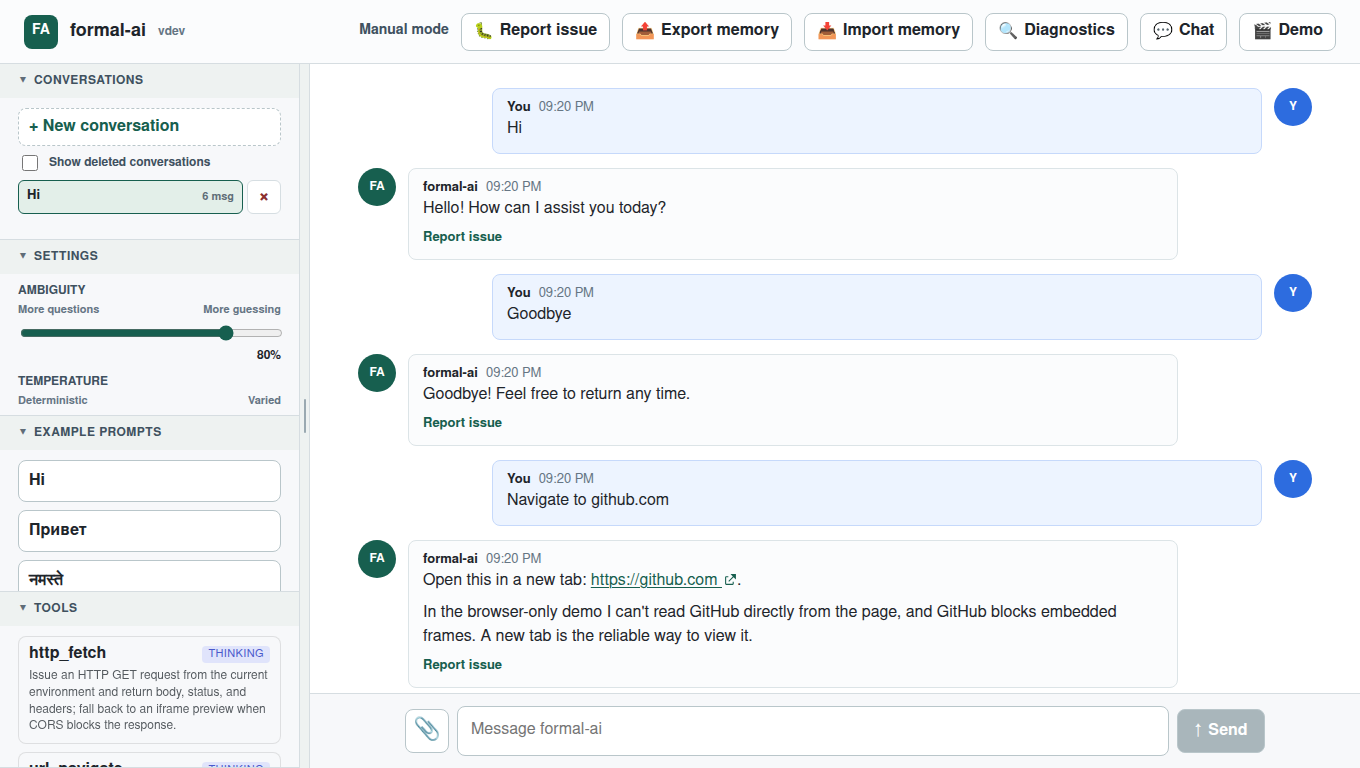
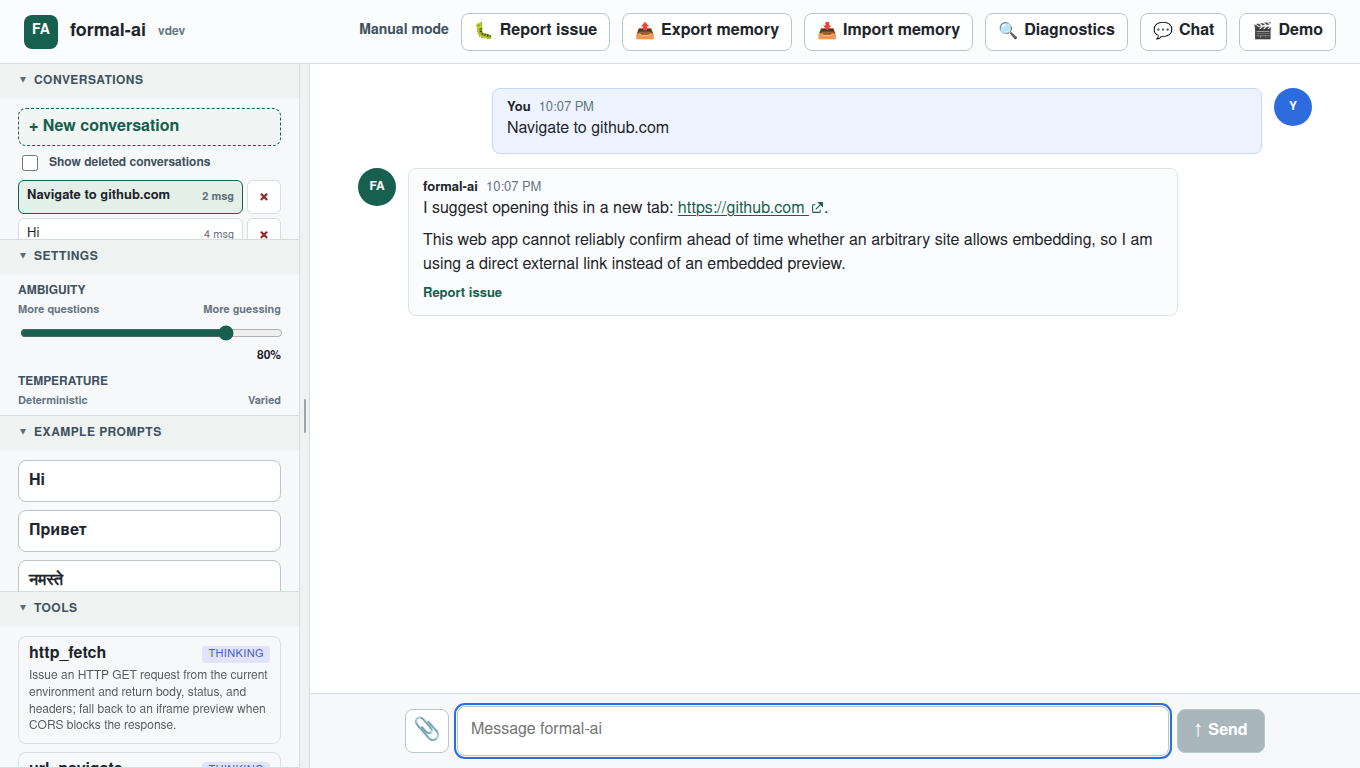
Refine URL navigation external links

diff --git a/src/web/formal_ai_worker.js b/src/web/formal_ai_worker.js
@@ -4237,20 +4237,6 @@ function normalizeUrlCandidate(candidate) {
   return parsed.href.replace(/\/$/, "");
 }
 
-function knownFrameBlockedHost(url) {
-  let parsed;
-  try {
-    parsed = new URL(url);
-  } catch (_error) {
-    return "";
-  }
-  const host = parsed.hostname.toLowerCase();
-  if (host === "github.com" || host.endsWith(".github.com")) {
-    return host;
-  }
-  return "";
-}
-
 function firstUrlCandidate(prompt) {
   const tokens = String(prompt || "").split(/\s+/);
   for (const token of tokens) {
@@ -4611,34 +4597,14 @@ async function tryUrlNavigate(prompt) {
   const url = extractUrlNavigateUrl(prompt, normalized);
   if (!url) return null;
 
-  const blockedHost = knownFrameBlockedHost(url);
   const evidence = [`url_navigate:request:${url}`];
-  if (blockedHost) {
-    evidence.push(`url_preview:blocked:${blockedHost}`);
-    return {
-      intent: "url_navigate",
-      content: [
-        `Open this in a new tab: [${url}](${url}).`,
-        "",
-        [
-          "In the browser-only demo I can't read GitHub directly from the page,",
-          "and GitHub blocks embedded frames.",
-          "A new tab is the reliable way to view it.",
-        ].join(" "),
-      ].join("\n"),
-      confidence: 0.95,
-      evidence,
-      iframeUrl: null,
-    };
-  }
-
-  evidence.push(`url_preview:iframe:${url}`);
+  evidence.push(`url_preview:external_link:${url}`);
   const lines = [
-    `Open this page: [${url}](${url}).`,
+    `I suggest opening this in a new tab: [${url}](${url}).`,
     "",
     [
-      "I can also show a preview below when the site allows embedded frames.",
-      "If the frame is blocked, use the new-tab control.",
+      "This web app cannot reliably confirm ahead of time whether an arbitrary site allows embedding,",
+      "so I am using a direct external link instead of an embedded preview.",
     ].join(" "),
   ];
 
@@ -4647,7 +4613,7 @@ async function tryUrlNavigate(prompt) {
     content: lines.join("\n"),
     confidence: 0.95,
     evidence,
-    iframeUrl: url,
+    iframeUrl: null,
   };
 }
 

diff --git a/tests/e2e/tests/multilingual.spec.js b/tests/e2e/tests/multilingual.spec.js
@@ -201,7 +201,7 @@ test.describe('multilingual chat surface', () => {
     await expect(last).not.toContainText(/рок-группа|rock band|american.*rock|глэм/i);
   });
 
-  test('GitHub navigation opens as an external link without iframe preview', async ({ page }) => {
+  test('GitHub navigation suggests an external link without iframe preview', async ({ page }) => {
     const githubRequestTypes = [];
     await page.route(/https:\/\/github\.com\/?.*/, async (route) => {
       githubRequestTypes.push(route.request().resourceType());
@@ -211,8 +211,12 @@ test.describe('multilingual chat surface', () => {
     const last = await sendPrompt(page, 'Navigate to github.com');
     await expect(last).toHaveClass(/assistant/);
     await expect(last).toContainText('https://github.com');
+    await expect(last).toContainText('I suggest opening this in a new tab');
+    await expect(last).toContainText('This web app');
     await expect(last).not.toContainText('Could not fetch');
     await expect(last).not.toContainText('URL requested for');
+    await expect(last).not.toContainText('Open this');
+    await expect(last).not.toContainText('demo');
     await expect(last).not.toContainText('iframe');
     await expect(last).not.toContainText('preview below');
     await expect(last).toContainText(/new tab/i);

diff --git a/tests/unit/web_requests.rs b/tests/unit/web_requests.rs
@@ -1,19 +1,35 @@
 use formal_ai::FormalAiEngine;
 
 #[test]
-fn github_navigation_returns_new_tab_link_without_iframe_preview() {
-    // Regression test for issue #169: GitHub blocks embedding, and the
-    // browser-only demo cannot inspect GitHub page headers directly from the
-    // GitHub Pages origin. In that case navigation should give a natural
-    // new-tab link instead of rendering an iframe that shows Chrome's blocked
-    // frame placeholder.
+fn navigation_returns_polite_new_tab_link_without_iframe_preview() {
+    // Regression test for issue #169: the browser web app cannot reliably
+    // preflight arbitrary frame-policy headers before rendering a cross-origin
+    // URL. Navigation should therefore use a direct external link instead of a
+    // host-specific blocklist or an iframe that may show a blocked-frame page.
     let response = FormalAiEngine.answer("Navigate to github.com");
 
     assert_eq!(response.intent, "url_navigate");
     assert!(response.answer.contains("https://github.com"));
     assert!(
-        response.answer.to_lowercase().contains("new tab"),
-        "GitHub navigation should tell the user to open a new tab, got: {}",
+        response
+            .answer
+            .contains("I suggest opening this in a new tab"),
+        "Navigation should be phrased as a polite suggestion, got: {}",
+        response.answer
+    );
+    assert!(
+        !response.answer.contains("Open this"),
+        "Navigation copy should not command the user, got: {}",
+        response.answer
+    );
+    assert!(
+        response.answer.contains("This web app"),
+        "Navigation copy should call the product a web app, got: {}",
+        response.answer
+    );
+    assert!(
+        !response.answer.to_lowercase().contains("demo"),
+        "Navigation copy should not call the product a demo, got: {}",
         response.answer
     );
     assert!(
@@ -39,8 +55,31 @@ fn github_navigation_returns_new_tab_link_without_iframe_preview() {
         response
             .evidence_links
             .iter()
-            .any(|link| link.starts_with("url_preview:blocked:")),
-        "GitHub navigation should record why iframe preview was skipped: {:?}",
+            .any(|link| link.starts_with("url_preview:external_link:")),
+        "Navigation should record the direct external-link preview path: {:?}",
+        response.evidence_links
+    );
+}
+
+#[test]
+fn generic_navigation_uses_same_external_link_path_as_github() {
+    let response = FormalAiEngine.answer("Navigate to example.com");
+
+    assert_eq!(response.intent, "url_navigate");
+    assert!(response.answer.contains("https://example.com"));
+    assert!(
+        response
+            .evidence_links
+            .iter()
+            .any(|link| link.starts_with("url_preview:external_link:")),
+        "Generic navigation should not depend on a hardcoded frame-blocked host table: {:?}",
+        response.evidence_links
+    );
+    assert!(
+        !response.evidence_links.iter().any(|link| {
+            link.starts_with("url_preview:blocked:") || link.starts_with("url_preview:iframe:")
+        }),
+        "Generic navigation should use the same external-link-only path: {:?}",
         response.evidence_links
     );
 }

diff --git a/src/solver_handlers/web_requests.rs b/src/solver_handlers/web_requests.rs
@@ -11,7 +11,7 @@ use super::finalize_simple;
 
 /// Match prompts that explicitly ask the engine to perform an HTTP request
 /// (e.g. `fetch google.com`, `Сделай запрос к google.com`). In the browser
-/// demo the actual `fetch()` is attempted first, with an iframe fallback when
+/// web app the actual `fetch()` is attempted first, with an iframe fallback when
 /// CORS blocks the request. Non-fetch URL prompts (`Navigate to github.com`,
 /// `Visit github.com`, ...) are handled by [`try_url_navigate`] instead.
 pub fn try_http_fetch(
@@ -23,7 +23,7 @@ pub fn try_http_fetch(
     log.append("http_fetch:request", url.clone());
     let body = format!(
         "HTTP fetch requested for `{url}`.\n\n\
-         The browser demo attempts a direct `fetch()` first and shows the \
+         The browser web app attempts a direct `fetch()` first and shows the \
          response body when the server allows CORS. If the request is blocked \
          by CORS, the page falls back to an embedded iframe with open-in-new-tab \
          and full-screen controls.\n\n\
@@ -41,8 +41,8 @@ pub fn try_http_fetch(
 
 /// Match prompts that ask the assistant to navigate to or display a URL
 /// without performing an HTTP request (e.g. `Navigate to github.com`,
-/// `Go to github.com`, `Перейди на github.com`). The browser demo renders
-/// the link directly and previews it in an iframe; no `fetch()` is attempted.
+/// `Go to github.com`, `Перейди на github.com`). The browser web app renders
+/// a direct external link; no `fetch()` is attempted.
 pub fn try_url_navigate(
     prompt: &str,
     normalized: &str,
@@ -50,22 +50,13 @@ pub fn try_url_navigate(
 ) -> Option<SymbolicAnswer> {
     let url = extract_url_navigate_url(prompt, normalized)?;
     log.append("url_navigate:request", url.clone());
-    let body = if let Some(blocked_host) = known_frame_blocked_host(&url) {
-        log.append("url_preview:blocked", blocked_host);
-        format!(
-            "Open this in a new tab: [{url}]({url}).\n\n\
-             In the browser-only demo I can't read GitHub directly from the \
-             page, and GitHub blocks embedded frames. A new tab is the reliable \
-             way to view it."
-        )
-    } else {
-        log.append("url_preview:iframe", url.clone());
-        format!(
-            "Open this page: [{url}]({url}).\n\n\
-             I can also show a preview below when the site allows embedded \
-             frames. If the frame is blocked, use the new-tab control."
-        )
-    };
+    log.append("url_preview:external_link", url.clone());
+    let body = format!(
+        "I suggest opening this in a new tab: [{url}]({url}).\n\n\
+         This web app cannot reliably confirm ahead of time whether an \
+         arbitrary site allows embedding, so I am using a direct external link \
+         instead of an embedded preview."
+    );
     Some(finalize_simple(
         prompt,
         log,
@@ -233,29 +224,6 @@ fn looks_like_hostname(value: &str) -> bool {
     })
 }
 
-fn known_frame_blocked_host(url: &str) -> Option<String> {
-    let host = host_from_url(url)?;
-    let normalized_host = host.to_ascii_lowercase();
-    if normalized_host == "github.com" || normalized_host.ends_with(".github.com") {
-        return Some(normalized_host);
-    }
-    None
-}
-
-fn host_from_url(url: &str) -> Option<&str> {
-    let after_scheme = url.split_once("://")?.1;
-    let host_port = after_scheme
-        .split(['/', '?', '#'])
-        .next()
-        .unwrap_or_default();
-    let host = host_port.split(':').next().unwrap_or_default();
-    if host.is_empty() {
-        None
-    } else {
-        Some(host)
-    }
-}
-
 /// Prefixes that mean "perform an HTTP request" — the browser worker will
 /// attempt a real `fetch()` for these prompts before falling back to iframe.
 const HTTP_FETCH_PREFIXES: &[&str] = &[
@@ -319,8 +287,8 @@ fn is_http_fetch_prompt(prompt: &str, normalized: &str, _raw_candidate: &str) ->
 }
 
 /// Prefixes that mean "navigate to / show this page" — the browser worker
-/// must NOT attempt `fetch()` for these prompts; it just renders the link
-/// and the iframe preview.
+/// must NOT attempt `fetch()` for these prompts; it returns a direct external
+/// link that the user can open in a new tab.
 const URL_NAVIGATE_PREFIXES: &[&str] = &[
     "navigate to ",
     "navigate ",

diff --git a/tests/unit/formal_ai.rs b/tests/unit/formal_ai.rs
@@ -577,9 +577,9 @@ fn fetch_prompt_returns_http_fetch_intent_not_unknown() {
 fn url_navigation_variations_return_https_link_without_fetch_advice() {
     // Regression test for issue #125: navigation-style prompts must route to
     // the `url_navigate` intent (no HTTP fetch attempted) and surface a direct
-    // HTTPS link plus iframe preview controls. They must not be conflated
-    // with the `http_fetch` intent, which is reserved for explicit requests
-    // such as `Make a request to google.com`.
+    // HTTPS external link. They must not be conflated with the `http_fetch`
+    // intent, which is reserved for explicit requests such as
+    // `Make a request to google.com`.
     let cases = [
         ("Navigate to github.com", "https://github.com"),
         ("Go to github.com", "https://github.com"),
@@ -643,7 +643,8 @@ fn http_fetch_and_url_navigate_intents_are_distinct() {
     // Issue #125: ensure the two flows do not collide. `Make a request to X`
     // must keep going through http_fetch (so the browser attempts an actual
     // network request) while `Navigate to X` must surface the url_navigate
-    // intent (iframe-only, no fetch attempt). Both must surface the URL.
+    // intent (direct external link, no fetch attempt). Both must surface the
+    // URL.
     let fetch_prompt = "Make a request to google.com";
     let navigate_prompt = "Navigate to google.com";
 

diff --git a/changelog.d/20260519_214500_issue_169_github_navigation.md b/changelog.d/20260519_214500_issue_169_github_navigation.md
@@ -1,4 +1,5 @@
 ### Fixed
-- For URL navigation to GitHub, return a natural new-tab link and skip the
-  iframe preview that GitHub blocks. Markdown links in chat messages now open
-  in a new tab and show an external-link indicator.
+- For URL navigation prompts, return a polite direct new-tab link instead of
+  hardcoding frame-blocked hosts or rendering an iframe preview that may be
+  blocked. Markdown links in chat messages now open in a new tab and show an
+  external-link indicator.

diff --git a/README.md b/README.md
@@ -132,7 +132,7 @@ The engine normalizes a prompt, selects a deterministic symbolic rule, and retur
 - hello world requests for Rust, Python, JavaScript, TypeScript, Go, and C
 - open-ended software artifact requests such as extensions, plugins, bots, apps, and tools, first returning a Links Notation meaning record with a requirement graph, subtasks, delivery mode, approval gates, reasoning, and plan steps, then returning language-aware starter domain code after the user approves the plan
 - calculator-parsable math, unit, currency, percentage, and datetime prompts through `link-calculator`, with the local arithmetic evaluator retained for unsupported word-operator and binary-modulo syntax
-- URL requests such as `Navigate to github.com`, `fetch example.com`, and `Сделай запрос к google.com`; the browser demo returns a direct HTTPS link and shows an embedded iframe preview with full-screen and open-in-new-tab controls
+- URL requests such as `Navigate to github.com`, `fetch example.com`, and `Сделай запрос к google.com`; navigation prompts return a direct external HTTPS link, while explicit fetch prompts attempt a browser `fetch()` and fall back to an embedded preview with full-screen and open-in-new-tab controls when CORS blocks the response
 - explicit web-search prompts such as `Search the web for Nikola Tesla` and `Найди в интернете Никола Тесла`; the browser demo uses the CORS-enabled Wikipedia search endpoint and returns ranked links
 - merged definition prompts such as `Merge Wikipedia definitions of IIR`, which combine localized definition blocks for the same seed/Wikidata concept, deduplicate repeated facts, and cite every source language; use `--definition-fusion auto`, `FORMAL_AI_DEFINITION_FUSION=auto`, or the browser Settings control to make plain prompts like `What is IIR?` use the same fusion path
 - unknown prompts, which return an explicit learnable-rule fallback